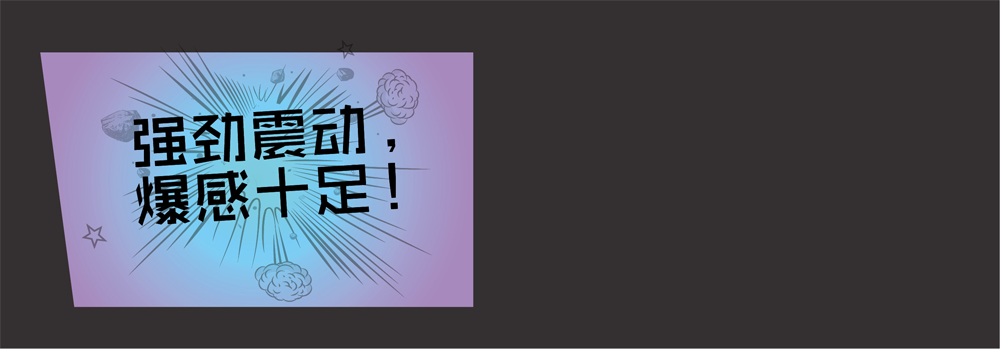
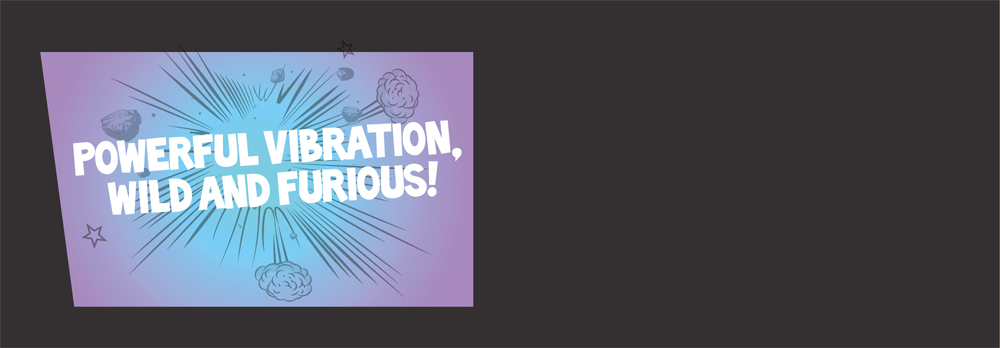
modify en versiong

Changed region(s): [[0.062, 0.2874, 0.465, 0.8046], [0.0, 0.0, 1.0, 1.0], [0.155, 0.7471, 0.372, 0.8908]]

diff --git a/web_en/css/index.css b/web_en/css/index.css
@@ -44,7 +44,7 @@ img{border:none;}
 .pic7{width: 1000px; height:620px; background: url("../images/pic7.png") no-repeat; border: 0px solid #000000;}
 .pic8{width: 1000px; height:295px; background: url("../images/pic8.png") no-repeat; border: 0px solid #000000;}
 .pic9{width: 1000px; height:690px; background: url("../images/pic9.png") no-repeat; border: 0px solid #000000;}
-.pic10{width: 1000px; height:349px; background: url("../images/pic10.png") no-repeat; border: 0px solid #000000;}
+.pic10{width: 1000px; height:348px; background: url("../images/pic10.png") no-repeat; border: 0px solid #000000;}
 .pic11{width: 1000px; height:264px; background: url("../images/pic11.png") no-repeat; border: 0px solid #000000;}
 .pic12{width: 1000px; height:272px; background: url("../images/pic12.png") no-repeat; border: 0px solid #000000;}
 .pic13{width: 1000px; height:348px; background: url("../images/pic13.png") no-repeat; border: 0px solid #000000;}
@@ -65,4 +65,5 @@ img{border:none;}
 .pic9 .text{color: #ffffff; padding-left: 10px; font-size: 20px;}
 .pic11 .title{color: #ffffff; padding-top: 17px; font-size: 22px; height:32px;}
 .pic11 .text{color: #ffffff; padding-left: 2px; font-size: 20px;}
+.text12{width: 410px; font-size: 24px; color: #ffffff; border: 0px solid #000000; padding-left: 10px; padding-top: 10px; float: left;}
 .text15{width: 500px; font-size: 24px; color: #000; padding-left: 100px; padding-top: 20px; float: left;}

diff --git a/web_en/index.html b/web_en/index.html
@@ -144,7 +144,14 @@ function clc(){
 	</div>
 	<div class="line"></div>
 	<div class="pic12">
-		<img src="./images/text12.png" />
+		<div class="fl" style="width:60px; height:30px; border:0px solid #000;"></div>
+		<div class="text12">
+			<div style="font-size: 46px">Classic Functions</div>
+			<div class="yellow" style="font-size: 20px; padding-top:10px;">Not Connected to Phones? You Can Still Enjoy!</div>
+			<div style="font-size: 24px;  padding-top:10px;">
+				LinkcuBe has all the classic features of traditional erotic toys when not connected to smart phones. It brings 7 wonderful vibration modes!
+			</div>
+		</div>
 	</div>
 	<div style="width: 1000px; height:20px;"></div>
 	<div class="pic13">
@@ -169,7 +176,7 @@ function clc(){
 		<div style="width: 1000px; border: 0px solid #000000;height:314px;"></div>
 		<div class="fl" style="width: 417px; height:58px;"></div>
 		<div class="fl" style="width: 165px; height:58px;">
-			<a style="width: 165px; height:58px; display: block;" href="http://www.jd.com" target="_blank"></a>
+			<a style="width: 165px; height:58px; display: block;" href="./buy.html"></a>
 		</div>
 	</div>
 	<div class="pic18"></div>
